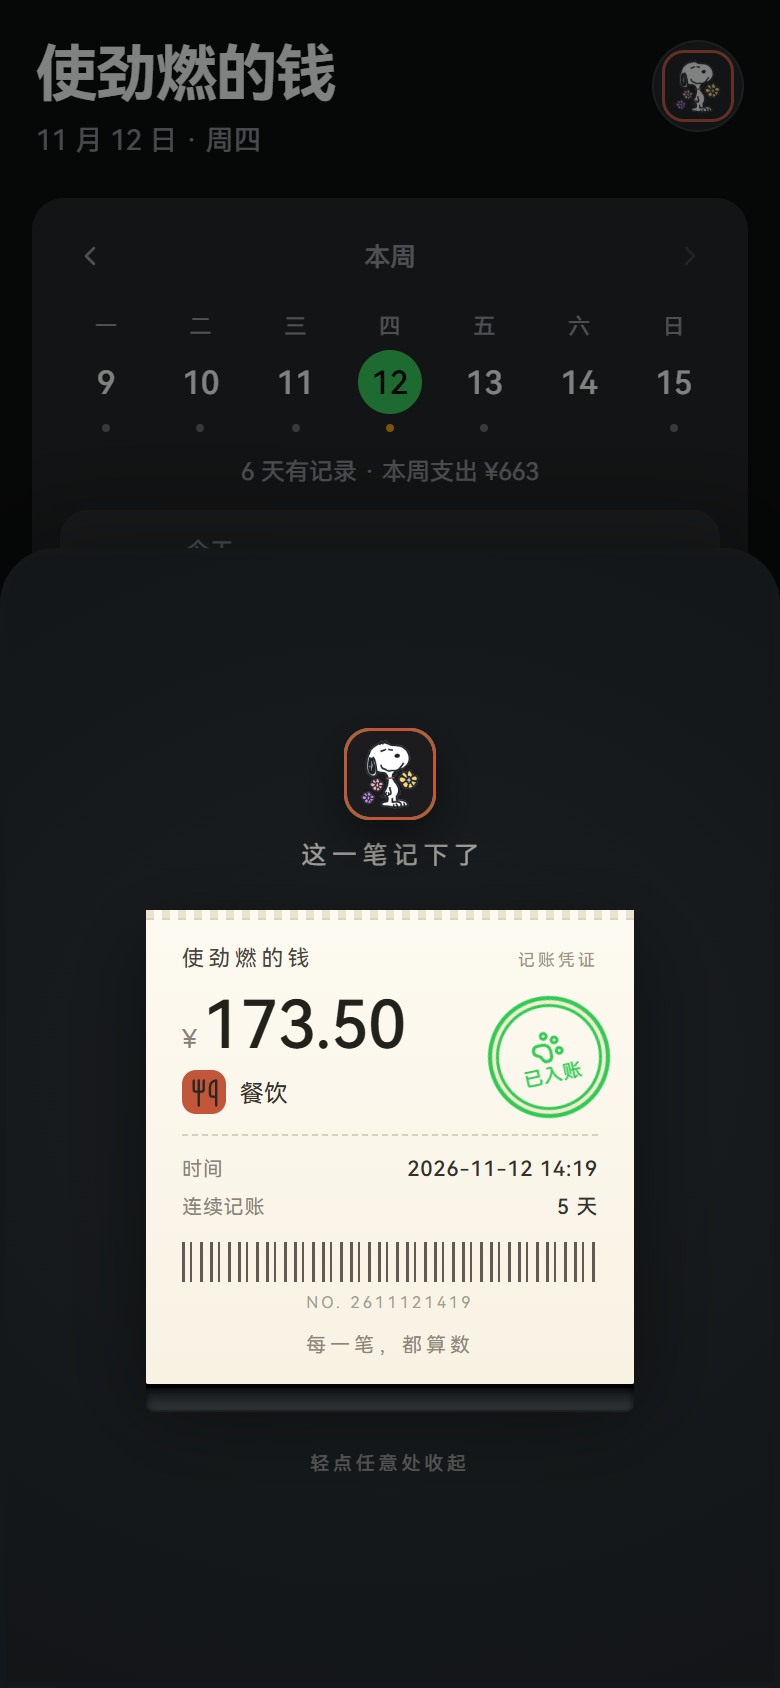
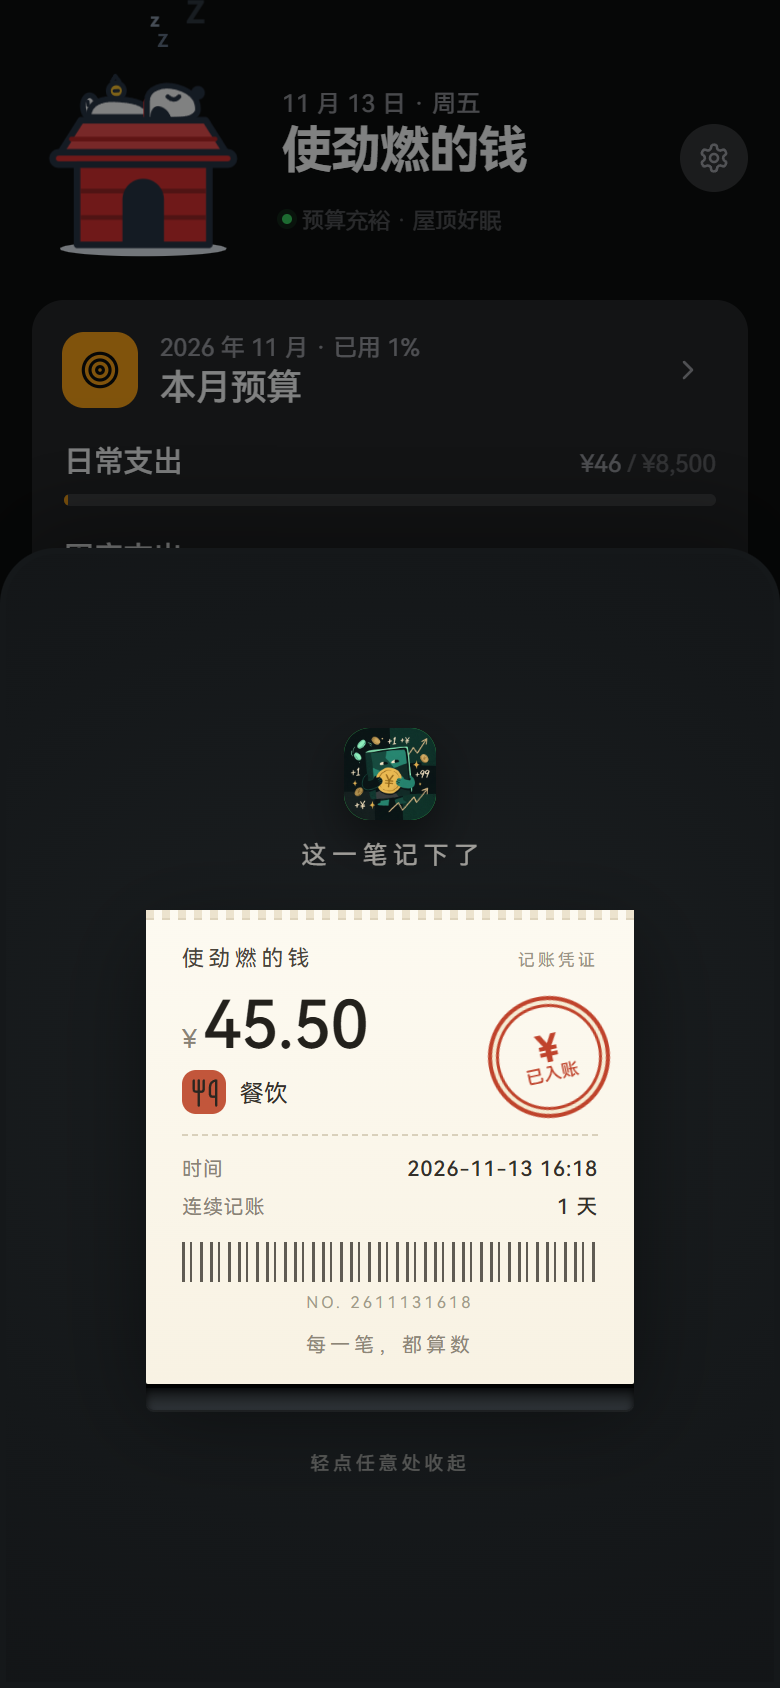
小票：朱砂红硬币章，头像跟「我的」保持一致
- 盖章从强调色双圈绿章改为固定的朱砂红双圈硬币：中间 ¥、下面已入账/已更新
- ReceiptData 增 avatar，记账成功小票顶部优先显示个人头像，没设置时回退小狗印章
- 版本 1.1.9（versionCode 19），更新 13-success 截图与 README/CHANGELOG

diff --git a/src/styles/app.css b/src/styles/app.css
@@ -2880,6 +2880,22 @@ textarea:focus-visible {
   box-shadow: 0 10px 22px rgba(0, 0, 0, 0.42), inset 0 0 0 1.5px var(--accent);
 }
 
+.rcp-avatar {
+  display: block;
+  width: 46px;
+  height: 46px;
+  border-radius: 13px;
+  overflow: hidden;
+  box-shadow: 0 10px 22px rgba(0, 0, 0, 0.42), inset 0 0 0 1.5px var(--accent);
+}
+
+.rcp-avatar img {
+  display: block;
+  width: 100%;
+  height: 100%;
+  object-fit: cover;
+}
+
 .rcp-cap-text {
   font-family: var(--display);
   font-size: 12.5px;
@@ -3067,22 +3083,30 @@ textarea:focus-visible {
   align-items: center;
   justify-content: center;
   gap: 1px;
-  border: 2.5px solid var(--accent);
+  border: 2.5px solid #c2452f;
   border-radius: 50%;
-  box-shadow: inset 0 0 0 2px #f9f3e4, inset 0 0 0 3.5px var(--accent);
-  color: var(--accent);
+  box-shadow: inset 0 0 0 2px #f9f3e4, inset 0 0 0 3.5px #c2452f;
+  color: #c2452f;
   opacity: 0;
   transform: rotate(-12deg) scale(2.3);
   mix-blend-mode: multiply;
 }
 
-/* 爪印在上，字在下，像盖的一枚小章 */
+/* 红色硬币在上、字在下，像盖的一枚朱砂小章 */
+.rcp-stamp-coin {
+  font-family: var(--num);
+  font-size: 19px;
+  font-weight: 800;
+  line-height: 0.9;
+  letter-spacing: -0.02em;
+}
+
 .rcp-stamp b {
   font-family: var(--display);
-  font-size: 9.5px;
+  font-size: 8.8px;
   font-weight: 500;
-  letter-spacing: 0.04em;
-  text-indent: 0.04em;
+  letter-spacing: 0.02em;
+  text-indent: 0.02em;
   line-height: 1;
 }
 

diff --git a/src/components/SuccessReceipt.tsx b/src/components/SuccessReceipt.tsx
@@ -1,5 +1,4 @@
 import { useEffect, useState } from 'react'
-import { PawPrint } from 'lucide-react'
 import { CategoryIcon } from './Icon'
 import { Seal } from './Seal'
 import { formatMoney, tap, tapSuccess } from '../utils'
@@ -55,7 +54,13 @@ export function SuccessReceipt({ data, onDone }: { data: ReceiptData; onDone: ()
       aria-label="记账成功，轻点收起"
     >
       <div className="rcp-cap">
-        <Seal className="rcp-seal" />
+        {data.avatar ? (
+          <span className="rcp-avatar">
+            <img src={data.avatar} alt="" />
+          </span>
+        ) : (
+          <Seal className="rcp-seal" />
+        )}
         <span className="rcp-cap-text">{data.mode === 'create' ? '这一笔记下了' : '这一笔改好了'}</span>
       </div>
 
@@ -98,7 +103,7 @@ export function SuccessReceipt({ data, onDone }: { data: ReceiptData; onDone: ()
             <p className="rcp-foot">每一笔，都算数</p>
 
             <span className={`rcp-stamp ${stage === 'done' || stage === 'out' ? 'is-in' : ''}`}>
-              <PawPrint size={17} strokeWidth={2.1} aria-hidden="true" />
+              <span className="rcp-stamp-coin" aria-hidden="true">¥</span>
               <b>{data.mode === 'create' ? '已入账' : '已更新'}</b>
             </span>
           </article>

diff --git a/src/pages/Me.tsx b/src/pages/Me.tsx
@@ -206,7 +206,7 @@ export function Me() {
       <footer className="me-foot">
         <img className="me-brand-icon" src={appIcon} alt="使劲燃的钱" />
         <div>
-          <b>使劲燃的钱 v1.1.8</b>
+          <b>使劲燃的钱 v1.1.9</b>
           <p><ShieldCheck size={13} strokeWidth={1.6} /> 数据只保存在这台手机上，不上传</p>
         </div>
         <button

diff --git a/src/types.ts b/src/types.ts
@@ -273,6 +273,8 @@ export interface ReceiptData {
   streak: number
   /** 新增还是编辑 */
   mode: 'create' | 'edit'
+  /** 个人头像（data URL），没设置时小票用小狗印章 */
+  avatar?: string
 }
 
 /** 轻提示样式 */

diff --git a/src/pages/AddSheet.tsx b/src/pages/AddSheet.tsx
@@ -158,6 +158,7 @@ export function AddSheet({
         date,
       ),
       mode: editing ? 'edit' : 'create',
+      avatar: state.settings.avatar,
     })
   }
 

diff --git a/README.md b/README.md
@@ -6,7 +6,7 @@
 
 - 纯本地存储，不联网、不上传、无广告、无账号
 - 深色 / 浅色 / 跟随系统 + 8 个强调色的可换主题；炭灰卡片、16px 间距、鸿蒙 Sans 中文 + Nunito 圆体数字；版式与主题系统参考 openGym，代码全部重写
-- 安装包：`release/使劲燃的钱-1.1.8.apk`（约 5.1 MB，minSdk 23 / targetSdk 35）
+- 安装包：`release/使劲燃的钱-1.1.9.apk`（约 5.1 MB，minSdk 23 / targetSdk 35）
 
 ## 功能
 
@@ -100,9 +100,9 @@ JAVA_HOME='C:\Program Files\Java\jdk-17' /c/Android/gradle-8.9/bin/gradle.bat -p
 
 数字会「跳」：每敲一键，金额整体上跳 2.5px、放大到 1.045 倍再落回（210ms，Web Animations，连打会重跑而不是叠加）；换分类时分类磁贴轻微弹一下，出现算式时「= ¥总计」从下方滑入。系统开了减少动态效果时，这些都会自动关掉。
 
-保存之后不是直接收起，而是把面板当成一台小机器，出一张热敏小票：金币从上方旋着落进出票口（580ms，3D 翻转带一点回弹，落槽时槽口被压一下），小票从槽里升上来（820ms，用 `clip-path` 从下往上揭，读起来就是纸在往外走），小票上印着金额、分类、备注、时间、连续记账天数和一段条形码，1150ms 时一枚「爪印 + 已入账」的双圈绿章从右上角砸下来（放大 2.3 倍落回 1 倍，带一点过冲），停一会儿后整块淡出并收起面板，全程 2.6 秒。轻点任意处可以立刻收起。小票仍是奶油纸配炭黑面板，绿色章和 App 的强调色一致。编辑已有记录时印章换成「已更新」，标题换成「修改凭证」。
+保存之后不是直接收起，而是把面板当成一台小机器，出一张热敏小票：金币从上方旋着落进出票口（580ms，3D 翻转带一点回弹，落槽时槽口被压一下），小票从槽里升上来（820ms，用 `clip-path` 从下往上揭，读起来就是纸在往外走），小票上印着金额、分类、备注、时间、连续记账天数和一段条形码，1150ms 时一枚朱砂红的双圈硬币章从右上角砸下来（中间一个 ¥，下面「已入账」，放大 2.3 倍落回 1 倍，带一点过冲），停一会儿后整块淡出并收起面板，全程 2.6 秒。轻点任意处可以立刻收起。小票仍是奶油纸配炭黑面板，红章和 App 的朱砂品牌色一致。编辑已有记录时印章换成「已更新」，标题换成「修改凭证」。
 
-品牌标记是那只抱花的小狗：页头、我的页、引导页和小票顶部都用同一枚印章——深色圆角卡片里放贴纸，外面一圈 1.5px 朱砂细线（线画在图形之上，不会被盖住）。小图用的是 `src/assets/mascot.png`（由 `design/build_brand.py` 从 `design/icon-src/mascot.png` 生成：方块画布 + 整张贴纸居中），和桌面图标是两套资产，印章里始终是那只完整的小狗，不裁头也不切花。
+品牌标记是那只抱花的小狗：页头、我的页、引导页都用同一枚印章——深色圆角卡片里放贴纸，外面一圈 1.5px 朱砂细线（线画在图形之上，不会被盖住）。小图用的是 `src/assets/mascot.png`（由 `design/build_brand.py` 从 `design/icon-src/mascot.png` 生成：方块画布 + 整张贴纸居中），和桌面图标是两套资产，印章里始终是那只完整的小狗，不裁头也不切花。小票顶部的头像跟「我的」保持一致：设置过个人头像时用头像，没设置时回退成这枚小狗印章。
 
 「数据备份」弹层分导出、导入两个模式：导出页是一张文件名卡片（`使劲燃的钱-备份-日期.json` + 记录数 / 分类数 / 文件大小）加一个「导出备份文件」按钮，安卓走 `Filesystem` 写缓存再 `Share` 唤起系统分享面板，浏览器退化成 Blob 下载；导入页是「选择备份文件」+ 可编辑的文本框，两条路都行，读进来的内容先过一遍 `normalize()` 再整份覆盖。两个模式共用同一块弹层，切页不重开。
 

diff --git a/CHANGELOG.md b/CHANGELOG.md
@@ -1,5 +1,13 @@
 # 更新记录
 
+## 1.1.9 — 2026-11-13
+
+安装包 `release/使劲燃的钱-1.1.9.apk`（约 5.1 MB，versionCode 19）。
+
+- 小票印章改成朱砂红双圈硬币章：中间 ¥、下面「已入账 / 已更新」，不再跟强调色走。
+- 小票顶部头像与「我的」一致：设置过个人头像就显示头像，没设置时回退小狗印章。
+- 版本号 1.1.9（versionCode 19）。
+
 ## 1.1.8 — 2026-11-13
 
 安装包 `release/使劲燃的钱-1.1.8.apk`（约 5.1 MB，versionCode 18）。
